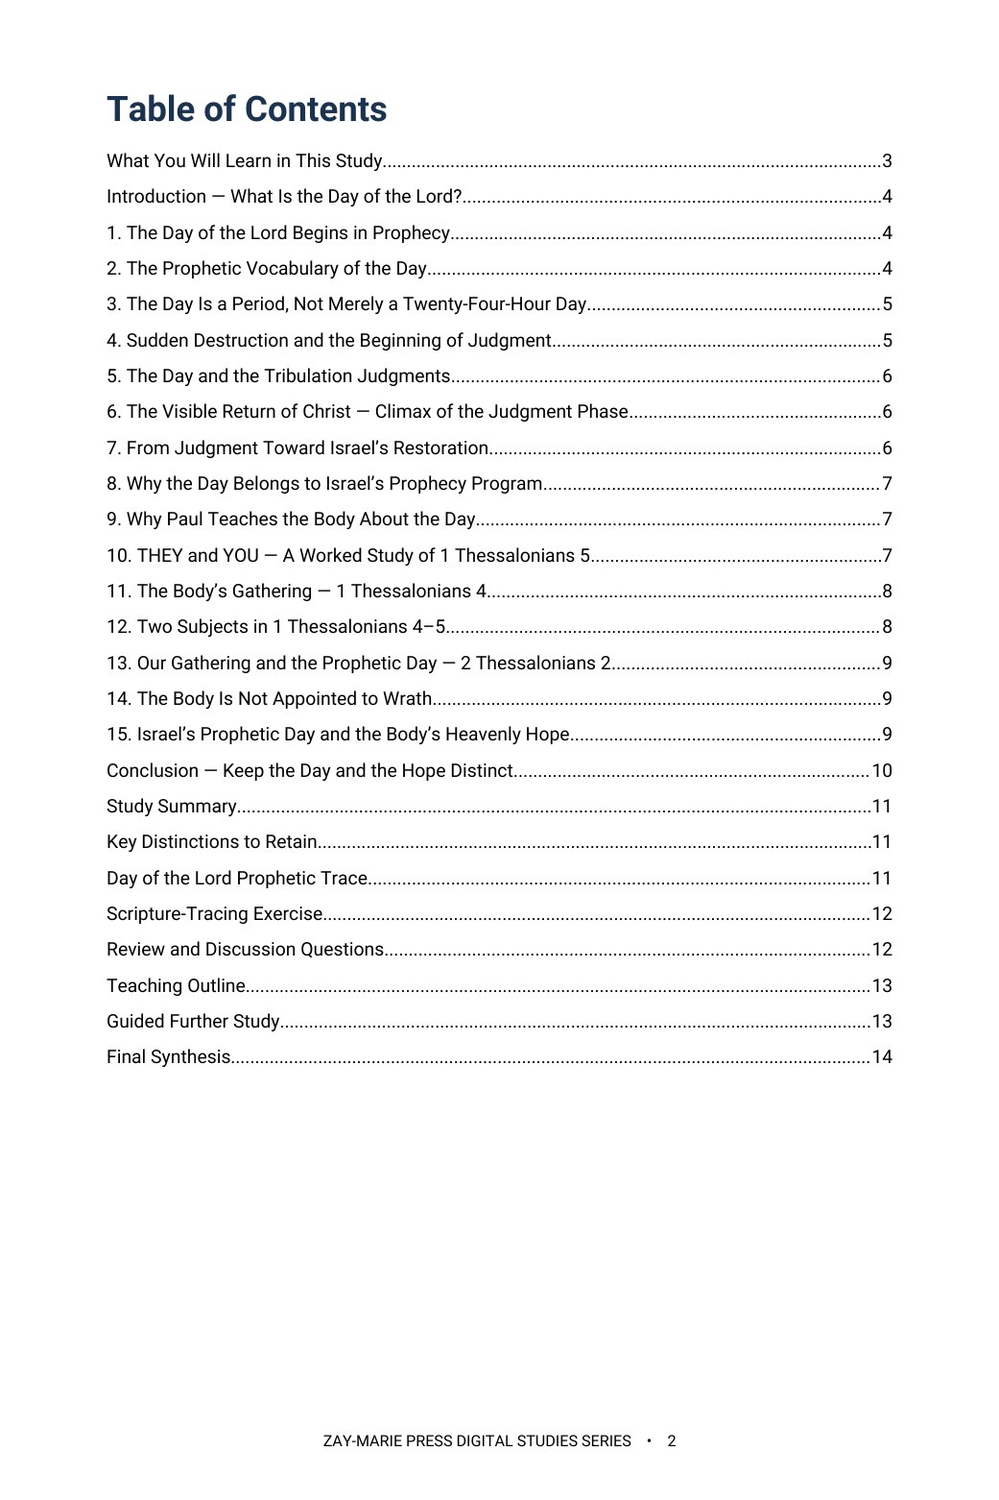
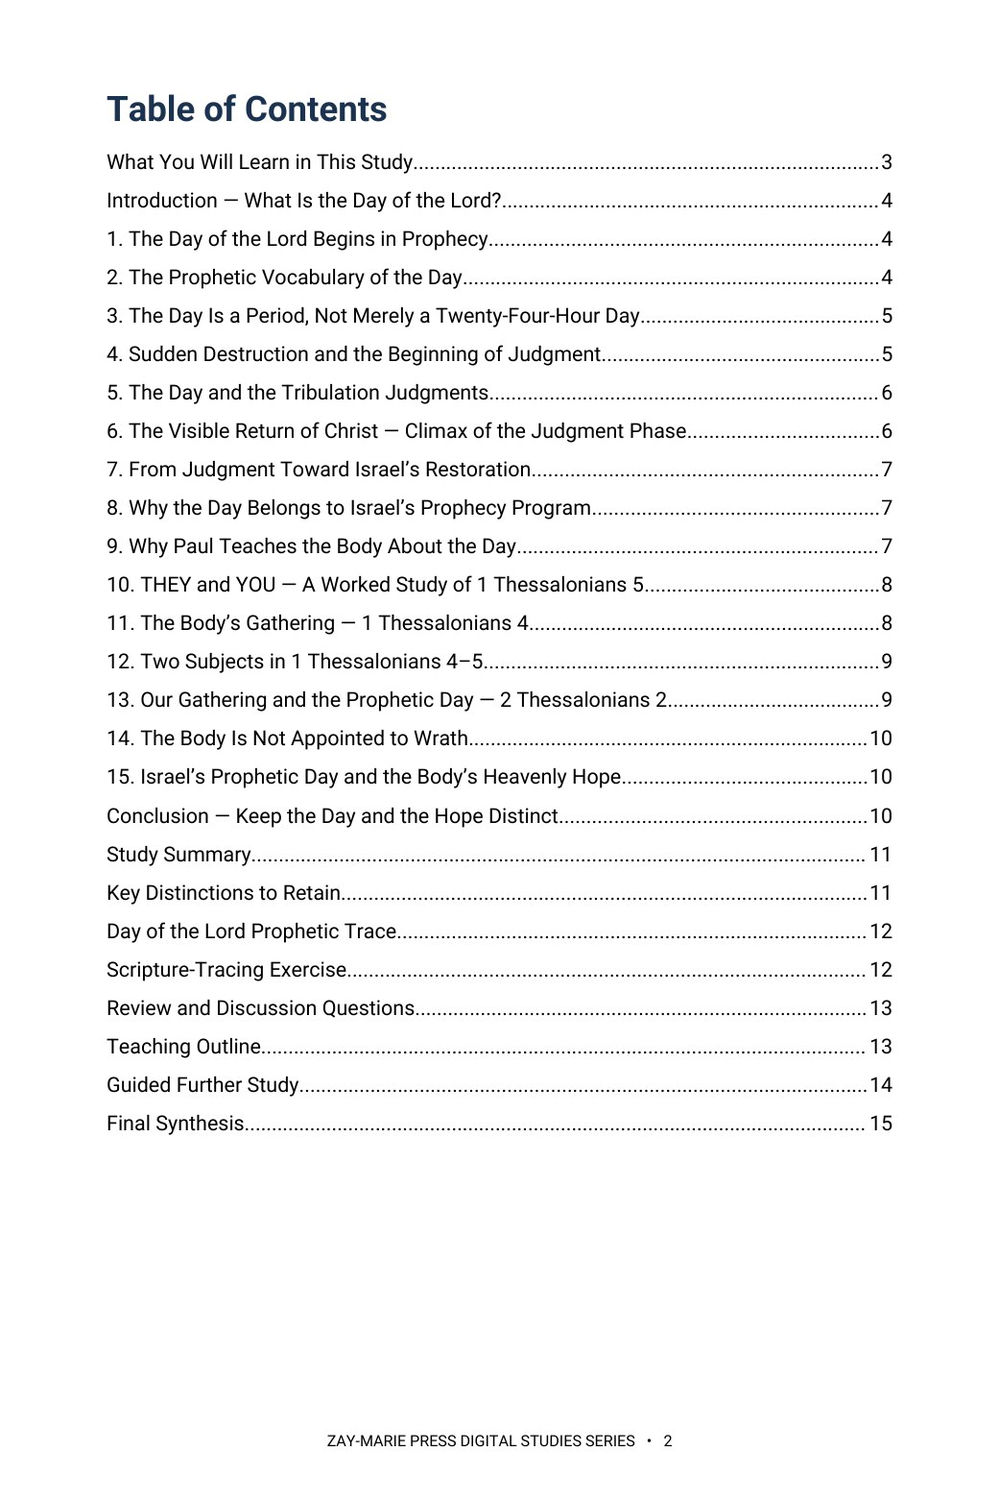
Study 7: rebuild at 15 pages with v1.51 imprint, process-bullet What You Will Learn, numbered Teaching Outline; preview 5 relabelled
Claude-Session: https://claude.ai/code/session_01HC7bs9KYP2scp4hCL6DkTp

diff --git a/study-07-the-day-of-the-lord.html b/study-07-the-day-of-the-lord.html
@@ -14,6 +14,6 @@
 <section class="detail-section soft"><div class="wrap"><div class="eyebrow">WHAT YOU’LL STUDY</div><h2>Keep the Day and the Hope Distinct</h2><div class="study-points"><div class="study-point"><h3>The Day Begins in Prophecy</h3><p>Establish its prophetic vocabulary, purpose, and extended character.</p></div><div class="study-point"><h3>Judgment, Wrath, and Return</h3><p>Follow the Day through judgment to its visible climax in Christ’s return.</p></div><div class="study-point"><h3>Israel’s Restoration and Kingdom Hope</h3><p>See why judgment belongs within Israel’s prophetic future and restoration.</p></div><div class="study-point"><h3>Why Paul Teaches the Body About the Day</h3><p>Learn how a Pauline epistle can address a prophetic subject without redefining its setting.</p></div><div class="study-point"><h3>THEY and YOU</h3><p>Work through Paul’s contrast in 1 Thessalonians 5 between those overtaken by the Day and believers identified differently.</p></div><div class="study-point"><h3>The Body’s Gathering and Hope</h3><p>Keep 1 Thessalonians 4 distinct from the Day of the Lord in chapter 5.</p></div></div></div></section>
 <section class="detail-section cream"><div class="wrap"><div class="eyebrow">KEY SCRIPTURES</div><h2>Examine the Passages for Yourself</h2><div class="scripture-grid"><div class="scripture-card"><h3>Joel 2:1–31</h3><p>Provides the prophetic vocabulary of darkness, wrath, and the Day’s intervention.</p></div><div class="scripture-card"><h3>Isaiah 13:6–13</h3><p>Associates the Day with divine judgment and cosmic disturbance.</p></div><div class="scripture-card"><h3>Zephaniah 1:14–18</h3><p>Describes the Day as a period of wrath, distress, and devastation.</p></div><div class="scripture-card"><h3>Zechariah 14:1–9</h3><p>Connects the Day with the Lord’s visible intervention and Kingdom reign.</p></div><div class="scripture-card"><h3>1 Thessalonians 4:13–18</h3><p>Establishes the Body’s gathering to Christ and enduring relationship with Him.</p></div><div class="scripture-card"><h3>1 Thessalonians 5:1–11</h3><p>Places the Day of the Lord beside Paul’s THEY/YOU distinction and assurance concerning wrath.</p></div><div class="scripture-card"><h3>2 Thessalonians 2:1–12</h3><p>Addresses our gathering and the prophetic Day without forcing a complete chronology.</p></div><div class="scripture-card"><h3>Revelation 6–19</h3><p>Provides the broader judgment context leading toward Christ’s visible return.</p></div></div></div></section>
 <section class="detail-section"><div class="wrap"><div class="eyebrow">FROM THE STUDY</div><h2>Israel’s Prophetic Day and the Body’s Heavenly Hope</h2><div class="excerpt"><blockquote>“The Day of the Lord belongs to Israel’s prophetic future, while the Body of Christ possesses a distinct heavenly hope.”</blockquote><p>The distinction preserves both subjects: Israel’s prophetic Day of judgment, visible return, and restoration; and the Body’s gathering to Christ, enduring relationship with Him, and assurance that it is not appointed to wrath.</p></div></div></section>
-<section class="detail-section soft"><div class="wrap"><div class="eyebrow">A LOOK INSIDE</div><h2>Preview the Study Before You Purchase</h2><p class="preview-instruction">Click any page to enlarge it for reading.</p><div class="preview-grid"><div class="preview-card"><a class="preview-image-link" data-preview-lightbox href="assets/study-07-page-2.jpg"><img src="assets/study-07-page-2.jpg" alt="Study 7 interior preview — page 2, table of contents"/></a><div class="page-no">Page 2</div><h3>Table of Contents</h3><p>See the full structure of the study, from the introduction through the final synthesis.</p></div><div class="preview-card"><a class="preview-image-link" data-preview-lightbox href="assets/study-07-page-3.jpg"><img src="assets/study-07-page-3.jpg" alt="Study 7 interior preview — page 3, what you will learn"/></a><div class="page-no">Page 3</div><h3>What You Will Learn</h3><p>See the study’s goals, controls, and central question at a glance.</p></div><div class="preview-card"><a class="preview-image-link" data-preview-lightbox href="assets/study-07-page-5.jpg"><img src="assets/study-07-page-5.jpg" alt="Study 7 interior preview — page 5, sudden destruction and the prophetic Day"/></a><div class="page-no">Page 5</div><h3>Sudden Destruction and Judgment</h3><p>Separate what 1 Thessalonians 5 states outright from what the larger prophetic record adds.</p></div></div></div></section>
+<section class="detail-section soft"><div class="wrap"><div class="eyebrow">A LOOK INSIDE</div><h2>Preview the Study Before You Purchase</h2><p class="preview-instruction">Click any page to enlarge it for reading.</p><div class="preview-grid"><div class="preview-card"><a class="preview-image-link" data-preview-lightbox href="assets/study-07-page-2.jpg"><img src="assets/study-07-page-2.jpg" alt="Study 7 interior preview — page 2, table of contents"/></a><div class="page-no">Page 2</div><h3>Table of Contents</h3><p>See the full structure of the study, from the introduction through the final synthesis.</p></div><div class="preview-card"><a class="preview-image-link" data-preview-lightbox href="assets/study-07-page-3.jpg"><img src="assets/study-07-page-3.jpg" alt="Study 7 interior preview — page 3, what you will learn"/></a><div class="page-no">Page 3</div><h3>What You Will Learn</h3><p>See the study’s goals, controls, and central question at a glance.</p></div><div class="preview-card"><a class="preview-image-link" data-preview-lightbox href="assets/study-07-page-5.jpg"><img src="assets/study-07-page-5.jpg" alt="Study 7 interior preview — page 5, the Day as a prophetic period"/></a><div class="page-no">Page 5</div><h3>The Day as a Prophetic Period</h3><p>Compare the prophets’ descriptions of the Day and test them against a single twenty-four-hour reading.</p></div></div></div></section>
 <section class="detail-section"><div class="wrap"><div class="eyebrow">WHAT’S INCLUDED</div><h2>A Focused Study Built for<br/>Understanding and Teaching</h2><div class="includes-grid"><div class="include-item"><h3>14-Page In-Depth Biblical Study</h3><p>A careful biblical study of Israel’s prophetic Day and the Body’s distinct hope.</p></div><div class="include-item"><h3>15 Core Teaching Sections</h3><p>Follow the Day from prophetic warning through judgment, return, and restoration.</p></div><div class="include-item"><h3>THEY/YOU Worked Study</h3><p>Examine the contrast Paul draws in 1 Thessalonians 5.</p></div><div class="include-item"><h3>Prophetic Vocabulary Trace</h3><p>Compare the Scriptures that define the Day’s darkness, wrath, judgment, and restoration.</p></div><div class="include-item"><h3>18 Review Questions</h3><p>Test the study’s distinctions regarding the Day, wrath, gathering, and hope.</p></div><div class="include-item"><h3>Teaching Outline</h3><p>A ready outline for explaining the Day and the Body’s heavenly hope.</p></div><div class="include-item"><h3>Eight Guided Investigations</h3><p>Work directly from the prophets, Thessalonian letters, and judgment passages.</p></div><div class="include-item"><h3>Final Synthesis Exercise</h3><p>Write a complete explanation that keeps the Day and the hope distinct.</p></div></div></div></section>
 <section class="detail-section cream"><div class="wrap"><div class="final-buy"><div><div class="eyebrow">STUDY 7 · DIGITAL STUDY</div><h2>The Day of the Lord</h2><p>14-page digital PDF · For personal use</p></div><div class="final-offer"><div class="detail-price">$5.99</div><span class="detail-button pending" aria-disabled="true">Get the Study</span></div></div><a class="back-link" href="digital-studies.html">← Back to All Digital Studies</a></div></section><section class="study-method-course-bridge"><div class="wrap"><div class="study-method-course-panel"><div><div class="eyebrow">BUILD THE INTERPRETIVE METHOD</div><h2>Want More Than a Focused Study?</h2><p>Digital Studies examine particular biblical subjects and difficult passages. The 40-lesson Biblical Hermeneutics course teaches a complete, repeatable method for establishing meaning in context, determining proper assignment, and making responsible application.</p></div><a class="btn btn-primary" href="biblical-hermeneutics-course.html">BIBLICAL HERMENEUTICS COURSE</a></div></div></section></main><div class="preview-lightbox" id="preview-lightbox" role="dialog" aria-modal="true" aria-label="Enlarged study page preview"><button class="preview-lightbox-close" type="button" aria-label="Close enlarged preview">×</button><img src="" alt=""/><div class="preview-lightbox-hint">Scroll to read the full page · Press Esc or click outside the page to close</div></div><footer class="site-footer"><div class="wrap footer-grid"><div class="footer-about"><h3>Zay-Marie Press</h3><p class="footer-tagline"><em>Where the Bible Means What It Says.</em></p><p>Zay-Marie Press is a Christian theological publisher dedicated to producing doctrinally precise, carefully structured biblical resources that equip pastors, teachers, and serious students with clarity, depth, and Scripture-anchored truth.</p><p><a href="https://zaymariepress.com">zaymariepress.com</a><br/><a href="mailto:info@zaymariepress.com">info@zaymariepress.com</a></p></div><div class="footer-column"><h3>Explore</h3><div class="footer-links-stacked"><a href="books.html">Books</a><br/><a href="series.html">Series</a><br/><a href="biblical-hermeneutics-course.html">Course</a><br/><a href="digital-studies.html">Digital Studies</a><br/><a href="resources.html">Resources</a><br/><a href="bible-book-summaries.html">Bible Book Summaries</a><br/><a href="doctrinal-packets.html">Doctrinal Packets</a><br/><a href="historical-drift.html">Historical Drift</a><br/><a href="about.html">About</a><br/><a href="contact.html">Contact</a></div></div><div class="footer-column"><h3>Reader Support</h3><div class="footer-links-stacked"><a href="reader-support.html#faq">FAQ</a><br/><a href="reader-support.html#shipping-returns">Shipping &amp; Returns</a><br/><a href="reader-support.html#digital-downloads">Digital Downloads</a><br/><a href="reader-support.html#contact-support">Contact Support</a></div></div><div class="footer-column"><h3>Acts Overlap</h3><p><strong>Acts Overlap Theology Series</strong></p><p><em>Two Distinct Streams. One Overlap.</em></p><p><a href="series.html">Series Overview</a></p></div></div><div class="wrap footer-bottom">© 2026 Zay-Marie Press. All rights reserved.</div></footer><script src="site.js"></script><script>(function(){var box=document.getElementById("preview-lightbox"),img=box.querySelector("img"),close=box.querySelector(".preview-lightbox-close"),hint=box.querySelector(".preview-lightbox-hint"),hintTimer;function shut(){clearTimeout(hintTimer);box.classList.remove("open");hint.classList.remove("fade");document.body.style.overflow="";img.src=""}document.querySelectorAll("[data-preview-lightbox]").forEach(function(a){a.addEventListener("click",function(e){e.preventDefault();clearTimeout(hintTimer);img.src=a.getAttribute("href");img.alt=a.querySelector("img").alt;hint.classList.remove("fade");box.classList.add("open");document.body.style.overflow="hidden";box.scrollTop=0;hintTimer=setTimeout(function(){hint.classList.add("fade")},3000)})});close.addEventListener("click",shut);box.addEventListener("click",function(e){if(e.target===box)shut()});document.addEventListener("keydown",function(e){if(e.key==="Escape"&&box.classList.contains("open"))shut()})})();</script></body></html>

diff --git a/site.js b/site.js
@@ -62,7 +62,7 @@ const resourceModal=document.querySelector('#resource-modal'), resourceModalTitl
 if(resourceModal&&resourceModalTriggers.length){const closeResourceModal=()=>{resourceModal.hidden=true;document.body.classList.remove('resource-modal-open');lastResourceTrigger?.focus();};resourceModalTriggers.forEach(trigger=>trigger.addEventListener('click',()=>{lastResourceTrigger=trigger;if(resourceModalTitle)resourceModalTitle.textContent=trigger.dataset.title||'Resource';if(resourceModalDescription)resourceModalDescription.textContent=trigger.dataset.description||'';if(resourceModalLink){resourceModalLink.href=trigger.dataset.href||'#';resourceModalLink.textContent=trigger.dataset.linkText||'OPEN RESOURCE';}resourceModal.hidden=false;document.body.classList.add('resource-modal-open');resourceModalClose?.focus();}));resourceModalClose?.addEventListener('click',closeResourceModal);resourceModal.addEventListener('click',e=>{if(e.target===resourceModal)closeResourceModal();});document.addEventListener('keydown',e=>{if(e.key==='Escape'&&!resourceModal.hidden)closeResourceModal();});}
 
 /* Display the verified final-PDF page count at the primary purchase decision point. */
-const digitalStudyPageCounts={1:20,2:19,3:18,4:17,5:15,6:15,7:14,8:13,9:15,10:20,11:15,12:15,13:18,14:15,15:15,16:16,17:17,18:18,19:18,20:18,21:16,22:15,23:14,24:16,25:17,26:16,27:16,28:17,29:19,30:18,31:19,32:19,33:18,34:20,35:22,36:20,37:21,38:22,39:22,40:23,41:21,42:17,43:16,44:19,45:19,46:20,47:20,48:20,49:20,50:20,51:20,52:19,53:19,54:17,55:20,56:20,57:20,58:19,59:20,60:15,61:14,62:18,63:17,64:17,65:16,66:16,67:17,68:16,69:17,70:17,71:16};
+const digitalStudyPageCounts={1:20,2:19,3:18,4:17,5:15,6:15,7:15,8:13,9:15,10:20,11:15,12:15,13:18,14:15,15:15,16:16,17:17,18:18,19:18,20:18,21:16,22:15,23:14,24:16,25:17,26:16,27:16,28:17,29:19,30:18,31:19,32:19,33:18,34:20,35:22,36:20,37:21,38:22,39:22,40:23,41:21,42:17,43:16,44:19,45:19,46:20,47:20,48:20,49:20,50:20,51:20,52:19,53:19,54:17,55:20,56:20,57:20,58:19,59:20,60:15,61:14,62:18,63:17,64:17,65:16,66:16,67:17,68:16,69:17,70:17,71:16};
 const digitalStudyMatch=window.location.pathname.match(/\/study-(\d+)-/i);
 const digitalStudyFormat=document.querySelector('.detail-hero .detail-format');
 if(digitalStudyMatch&&digitalStudyFormat){const studyNumber=Number(digitalStudyMatch[1]),pageCount=digitalStudyPageCounts[studyNumber];if(pageCount)digitalStudyFormat.textContent=`Digital PDF · ${pageCount} Pages`;}

diff --git a/build-tools/studies/b07/ed07r.py b/build-tools/studies/b07/ed07r.py
@@ -1,0 +1,16 @@
+from edcommon import *
+def apply(els):
+    assert all(els[i]['kind']=='bul' for i in range(4,16)) and els[16]['kind']=='ctitle'
+    new=['Trace the Day of the Lord through the prophets’ own vocabulary of intervention, wrath, darkness, judgment and restoration.',
+    'Weigh what the prophets say about the Day’s length and scope, and test whether it fits a single twenty-four-hour day.',
+    'Separate what 1 Thessalonians 5 explicitly states from conclusions drawn from the wider prophetic record, and follow the THEY/YOU contrast through the passage.',
+    'Read 1 Thessalonians 4 beside chapter 5 and note what each passage addresses and to whom.',
+    'Handle 2 Thessalonians 2 within the limits of what the passage itself says, without asking it to carry a complete chronology.']
+    els[4:16]=[mk('bul',[[t,False,False]]) for t in new]
+    for k,e in enumerate(els):
+        if P(e) and 'Study #7' in T(e):
+            for s in e['segs']: s[0]=s[0].replace('Study #7','this study')
+    for e in els:
+        if P(e) and 'Study #7' in T(e): raise SystemExit('left')
+    number_outline(els)
+    return els

diff --git a/CLAUDE.md b/CLAUDE.md
@@ -26,7 +26,7 @@ These are kept in the repo at `controlling-documents/` and are the current versi
 - **`build-tools/`** — the study rebuild toolkit (scripts, per-study edit files, README), committed 2026-10-04 at the publisher's approval so the retrofit method and every per-study wording edit survive a session reset. Working tools only; the site does not use them. Not a rule.
 **`controlling-documents/Digital_Studies_Relationship_Map_v1.39.md`** — records each study's distinct subject, its related studies, the eight priced six-study collections, the Paul's Missionary Journeys cross-reference map, and the five primary catalog categories (currently version 1.39, covers Studies 1–71; update it as new studies publish, bump the version number, rename the file to match, and log the change in its own version-history table — mirroring the Master Standard's `_vX.Y` filename convention). Check a proposed topic against it before recommending or writing a new study. (2026-09-28: the file was missing from this repo despite this note referencing it; replaced from the publisher's copy and bumped v1.15→v1.25 in the same pass. If this note ever again points to a version not present under `controlling-documents/`, ask the publisher for a copy rather than proceeding without the check.)
 - **`controlling-documents/Digital_Studies_Category_Standard_v1.1.md`** — FINAL and binding (publisher, 2026-10-01): the rules for the five primary catalog categories (Foundations, Israel & Prophecy, Body of Christ, Passages, Doctrinal Themes), the ordered decision procedure for new studies, the precedents, all 71 fixed assignments, and the cover-label form for each category. Read it before placing any card or cover label. Do not ask the publisher where a study belongs; apply the procedure and state the result. Only the publisher changes a ruling; then bump this Standard's version and filename, re-letter the cover, and update the Relationship Map.
-- **`controlling-documents/Doctrinal_Upgrade_Retrofit_Plan_v1.136.md`** — working tracker for retrofitting Studies 1–59 to the 2026-10-02 doctrinal upgrade (Framework/PAM v1.1, Master Standard v1.40, Rules 7–17): withdrawn-wording search keys, impact tiers, waves and the per-study method. Read it before continuing the retrofit in any session; update status, bump the version and rename the file as work proceeds.
+- **`controlling-documents/Doctrinal_Upgrade_Retrofit_Plan_v1.137.md`** — working tracker for retrofitting Studies 1–59 to the 2026-10-02 doctrinal upgrade (Framework/PAM v1.1, Master Standard v1.40, Rules 7–17): withdrawn-wording search keys, impact tiers, waves and the per-study method. Read it before continuing the retrofit in any session; update status, bump the version and rename the file as work proceeds.
 - **`controlling-documents/Doctrinal_Packet_Standard_v0.3.md`** — Doctrinal Packet Standard (DRAFT; §7 approved). Governs the separate Doctrinal Packets product strand (5-page interpretive PDFs per Bible book — a print-friendly cover as page 1 plus 4 content pages, $2.99, KJV, pilot: Genesis, live at `packet-genesis.html`, hub `doctrinal-packets.html`; site pages say "5 Pages", cover styles live in `packets.css`, Old Testament blue and New Testament soft pale green, hub listed in Bible order). **Preview rule (publisher directive, 2026-09-29, packets only):** previews show about one page's worth in two cropped views (top of page 1 through the anchor texts; the chart section) — never the exegesis, architecture, Mystery contrast, logic chain, outline, or closing. Master Standard §16/§17 still govern Digital Studies. Bump the version and rename the file as the Standard is finalized.
 - **`controlling-documents/Preview_Page_Spoiler_Retrofit_Audit_v1.4.md`** — working tracker for the Studies 1–60 preview-page conclusion-spoiler retrofit (see the section below). Read it before continuing that audit in any session; update its status fields and changelog, bump the version, and rename the file to match as the audit proceeds — same `_vX.Y` convention as the other controlling documents. As of v1.1, the website-side half was DONE: all 60 studies' "What You'll Study" text was judged against the rule (methodology documented in the file) and 22 points across 11 studies were rewritten and pushed; an unrelated Study 22 content bug (Study 21's content had leaked into it) was also found and fixed. As of v1.2, the publisher supplied Studies 1–60's interior production PDFs and the interior-PDF half was also surveyed (read-only): 10 studies (37, 41, 45, 47, 48, 49, 51, 52, 53, 54) were found to have at least one interior "What You Will Learn" violation, 50 studies were confirmed compliant, and the orphaned `assets/study-45-sanctification-under-grace.docx` (removed from the repo per the publisher in v1.0) was confirmed word-for-word identical to Study 45's actual production interior PDF content. As of v1.3, the publisher supplied editable DOCX sources for all 10 violating studies; all 15 violating points were rewritten and approved, delivered as corrected final PDFs, and — along the way — a second defect was found and fixed (Studies 47 and 48's source DOCX still had an unintegrated cover placeholder despite both being long-published live with real covers; fixed by inserting the existing approved cover art). The website's "What You Will Learn" preview image (`study-NN-page-3.jpg`) was regenerated from the corrected content for all 10 studies and pushed to `main` (commit `cea1859`), verified against a fresh clone. **The website side of this audit is now fully compliant for all 60 studies.** Outstanding: the publisher's purchasable interior PDF files themselves have corrected versions delivered, but distribution to existing purchasers was decided by the publisher on 2026-09-29: silent swap of the files behind the existing downloads, no reissue notice (recorded in the v1.4 changelog entry; the product files are not in this repo).
 

diff --git a/controlling-documents/Doctrinal_Upgrade_Retrofit_Plan_v1.137.md b/controlling-documents/Doctrinal_Upgrade_Retrofit_Plan_v1.137.md
@@ -230,3 +230,5 @@ Working tracker for correcting published studies to the Framework/PAM v1.1, Mast
 - v1.135 (2026-10-04): Study 61 PDF-only retrofit done. Rebuilt in Roboto at 10 pt on the current page from the publisher's 16-page final PDF (old 468×684 page, DejaVu/Liberation fonts; no DOCX), 14 pages (cover plus 13; was 16). Conformed: What You Will Learn lead-in plus bullets (bullets 4 and 5 and the Study Goal reworded to process wording, bullet 3 kept as the model); five callouts (the third Key Distinction became a run-in); flat TOC without Study Goal or Study Outline; Study Outline bulleted; Teaching Outline numbered; 'controlling framework' reworded to a reader-facing 'controlling distinction'; Body-absence sentence added to Section 2; imprint replaced with the v1.51 notice. Publisher ruling option 1: four neutral KJV tables (Rev 12:1–2; 12:3–5; 12:6–9 with 12:13–16; 12:10–12 with 12:17), KJV text fetched from kingjamesbibleonline.org (Rev 12:1–17). Content correction flagged to the publisher: the quoted 'a great sign' (12:1, 12:3) is not KJV wording ('wonder') and 'a formula he uses only twice' is wrong (Rev 15:1 'another sign'); Section 1 now reads 'great wonder', notes sēmeion, and the heading is 'A Great Wonder in Heaven'. Doctrine (woman = Israel; male child = 144,000; harpazō) unchanged. Website: page text 16 to 14 (interior line 13), site.js 61:14, include item now 'KJV Tables and Summary Table'; previews 2, 3 and 4 (the Section 1 page replaces old page 5; study-61-page-5.jpg removed; h3 'A Great Wonder in Heaven'). Wave 5 open list now empty. Publisher-approved 2026-10-04.
 
 - v1.136 (2026-10-04): Imprint scan, Study 3 rebuilt at 18 pages (was 16): v1.51 imprint, nine Acts 28 conformings with the Study 3 sequence sentence (1 Thess 4–5, 2 Thess 2), R17 inserted, bulleted What You Will Learn, two-level outlines. Website: site.js 3:18, include/buy text 17-page, comparison-table preview moved page 10 to 11 (asset renamed), previews 2, 3, 11. Studies 7, 8, 10, 2 remain on the imprint list. Publisher-approved 2026-10-04.
+
+- v1.137 (2026-10-04): Imprint scan, Study 7 rebuilt at 15 pages (was 14): v1.51 imprint, What You Will Learn cut from 12 conclusion-stating bullets to 5 process bullets, Teaching Outline numbered 1–11, 'Study #7' replaced by 'this study' (2 places). No doctrine changes needed. Website: site.js 7:15; previews 2, 3, 5 (page 5 now the Day-as-period page, relabelled). Studies 8, 10, 2 remain. Publisher-approved 2026-10-04.

diff --git a/controlling-documents/Digital_Studies_PAM_Audit_v1.231.md b/controlling-documents/Digital_Studies_PAM_Audit_v1.231.md
@@ -460,3 +460,4 @@ Study 15 PDF not yet supplied. Typography: none of Studies 2, 3, 6, 8 is in EB G
 - v1.228 (2026-10-04): Study 47 rebuilt at 20 pages with the Romans 15:27 ruling (see Retrofit Plan v1.134).
 - v1.229 (2026-10-04): Study 61 rebuilt at 14 pages with KJV tables (see Retrofit Plan v1.135); Wave 5 open list closed.
 - v1.230 (2026-10-04): Study 3 rebuilt at 18 pages with v1.51 imprint, Acts 28 sequence sentence ruling, bulleted What You Will Learn (see Retrofit Plan v1.136).
+- v1.231 (2026-10-04): Study 7 rebuilt at 15 pages with v1.51 imprint, five process-bullet What You Will Learn, numbered Teaching Outline, 'Study #7' removed (see Retrofit Plan v1.137).
